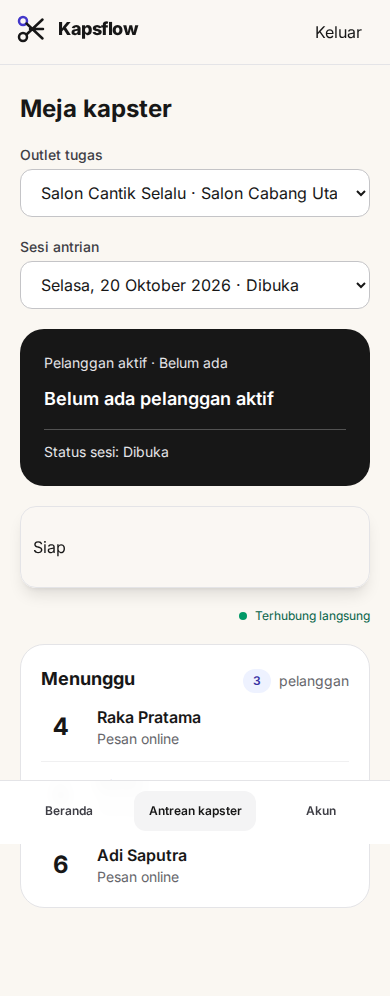
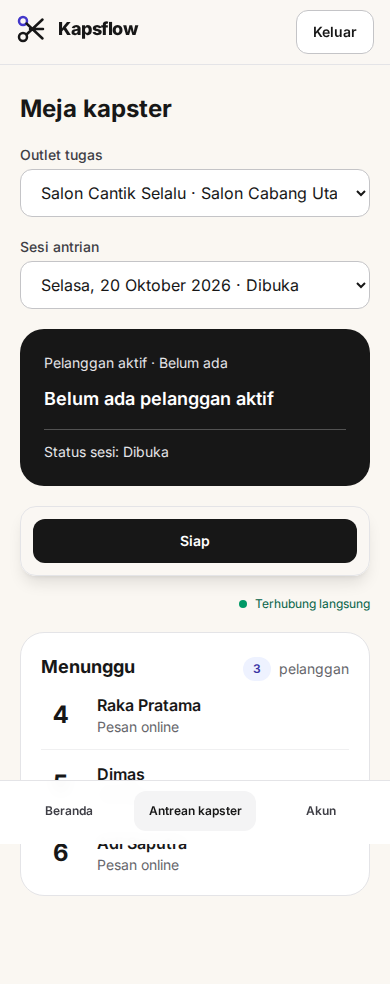
fase UI-10: perbaiki tampilan tombol kapster
Jaga kelas visual Button agar tidak tertimpa className pemanggil.
Rapikan aksi kapster dan verifikasi gaya serta klik melalui Playwright.

Claude-Session: https://claude.ai/code/session_01HUsY6ZgZyaUUgJZkRwD266

diff --git a/frontend/src/pages/Kapster.tsx b/frontend/src/pages/Kapster.tsx
@@ -256,7 +256,7 @@ function QueuePanel({ membership, session, onStreamConnectionChange }: {
 
       <section aria-label="Aksi kapster" className="sticky bottom-2 z-10 space-y-3 rounded-2xl border border-line bg-paper/95 p-3 shadow-lg backdrop-blur">
         {!currentTicket && (!myState || myState.status === 'idle') && (
-          <Button type="button" loading={action.isPending && action.variables === 'ready'} disabled={action.isPending} onClick={() => action.mutate('ready')} className="py-4 text-base">
+          <Button type="button" loading={action.isPending && action.variables === 'ready'} disabled={action.isPending} onClick={() => action.mutate('ready')} className="py-3 text-base">
             {action.isPending && action.variables === 'ready' ? 'Memanggil…' : 'Siap'}
           </Button>
         )}
@@ -266,21 +266,21 @@ function QueuePanel({ membership, session, onStreamConnectionChange }: {
           </p>
         )}
         {currentTicket?.status === 'called' && (
-          <Button type="button" loading={action.isPending && action.variables === 'start'} disabled={action.isPending} onClick={() => action.mutate('start')} className="py-4 text-base">
+          <Button type="button" loading={action.isPending && action.variables === 'start'} disabled={action.isPending} onClick={() => action.mutate('start')} className="py-3 text-base">
             {action.isPending && action.variables === 'start' ? 'Memulai…' : 'Mulai layanan'}
           </Button>
         )}
         {currentTicket?.status === 'called' && (
           <div className="mt-5 border-t border-line pt-3">
             <p className="mb-2 text-xs font-medium text-body-muted">Aksi lainnya</p>
-            <Button type="button" variant="secondary" disabled={action.isPending} onClick={() => setConfirmSkip(true)} className="py-4">
+            <Button type="button" variant="secondary" disabled={action.isPending} onClick={() => setConfirmSkip(true)} className="py-3">
               Ganti pelanggan
             </Button>
           </div>
         )}
         {currentTicket?.status === 'in_progress' && (
           <div className="w-full">
-            <Button type="button" loading={action.isPending && action.variables === 'complete'} disabled={action.isPending} onClick={() => action.mutate('complete')} className="w-full py-4 text-base">
+            <Button type="button" loading={action.isPending && action.variables === 'complete'} disabled={action.isPending} onClick={() => action.mutate('complete')} className="w-full py-3 text-base">
               {action.isPending && action.variables === 'complete' ? 'Menyelesaikan…' : 'Selesaikan'}
             </Button>
           </div>

diff --git a/frontend/src/components/ui.tsx b/frontend/src/components/ui.tsx
@@ -18,20 +18,16 @@ const buttonStyles: Record<ButtonStyle, string> = {
 }
 
 export function Button(props: ButtonProps) {
-  const { variant = 'primary', className = '', children } = props
-  const classes = `${buttonBase} ${buttonStyles[variant]} ${className}`
-
   if ('to' in props) {
-    return (
-      <Link to={props.to} state={props.state} className={classes}>
-        {children}
-      </Link>
-    )
+    const { variant = 'primary', className = '', children, to, state } = props
+    const classes = `${buttonBase} ${buttonStyles[variant]} ${className}`
+    return <Link to={to} state={state} className={classes}>{children}</Link>
   }
 
-  const { loading, disabled, ...rest } = props
+  const { variant = 'primary', className = '', children, loading, disabled, ...rest } = props
+  const classes = `${buttonBase} ${buttonStyles[variant]} ${className}`
   return (
-    <button className={classes} disabled={disabled || loading} {...rest}>
+    <button {...rest} className={classes} disabled={disabled || loading}>
       {loading ? 'Memproses…' : children}
     </button>
   )

diff --git a/docs/ROADMAP.md b/docs/ROADMAP.md
@@ -59,6 +59,7 @@ Perbarui file ini di setiap commit fase. Satu baris per fase.
 | 15-5 | Container migrator menjalankan Goose dan menyetel password role runtime sebelum API dimulai; API tidak mendapat DATABASE_URL |
 | UI-6 | Tema monokrom memakai satu aksen indigo terbatas untuk penanda, informasi, dan identitas; tombol utama dan status tetap memakai warna semantiknya |
 | UI-8 | Panel samping masuk tampil ringkas di HP dan ilustrasi barber memakai aksen indigo |
+| UI-10 | Perbaiki gaya tombol umum yang tertimpa `className`; rapikan ukuran aksi kapster ke tinggi sentuh minimum 44px |
 
 ## Berikutnya (urutan wajib)
 
